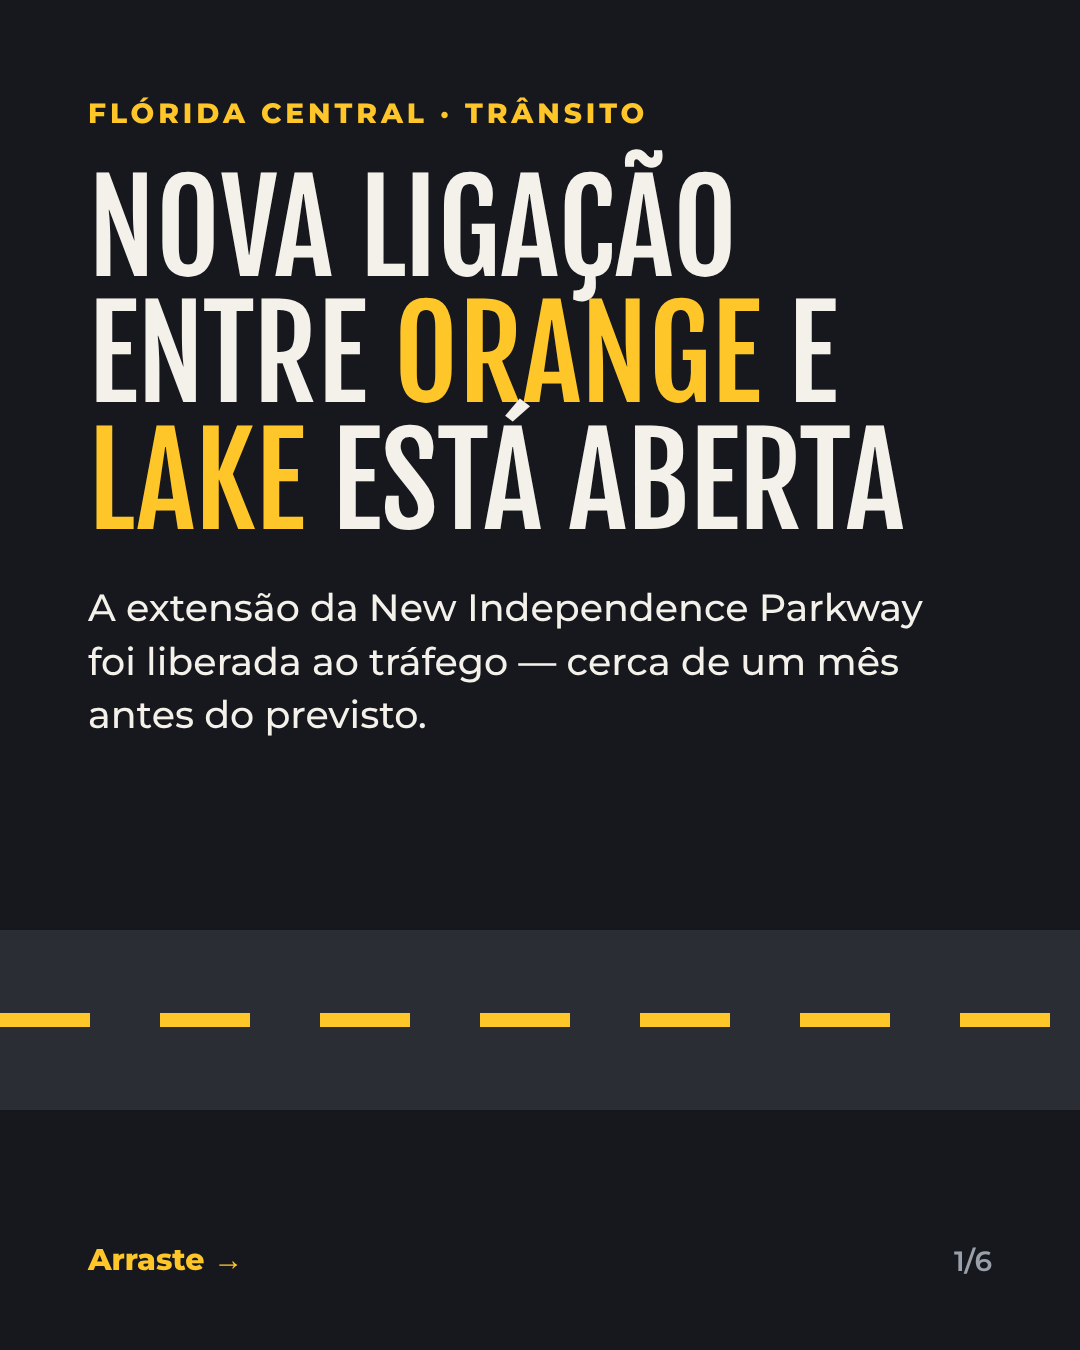
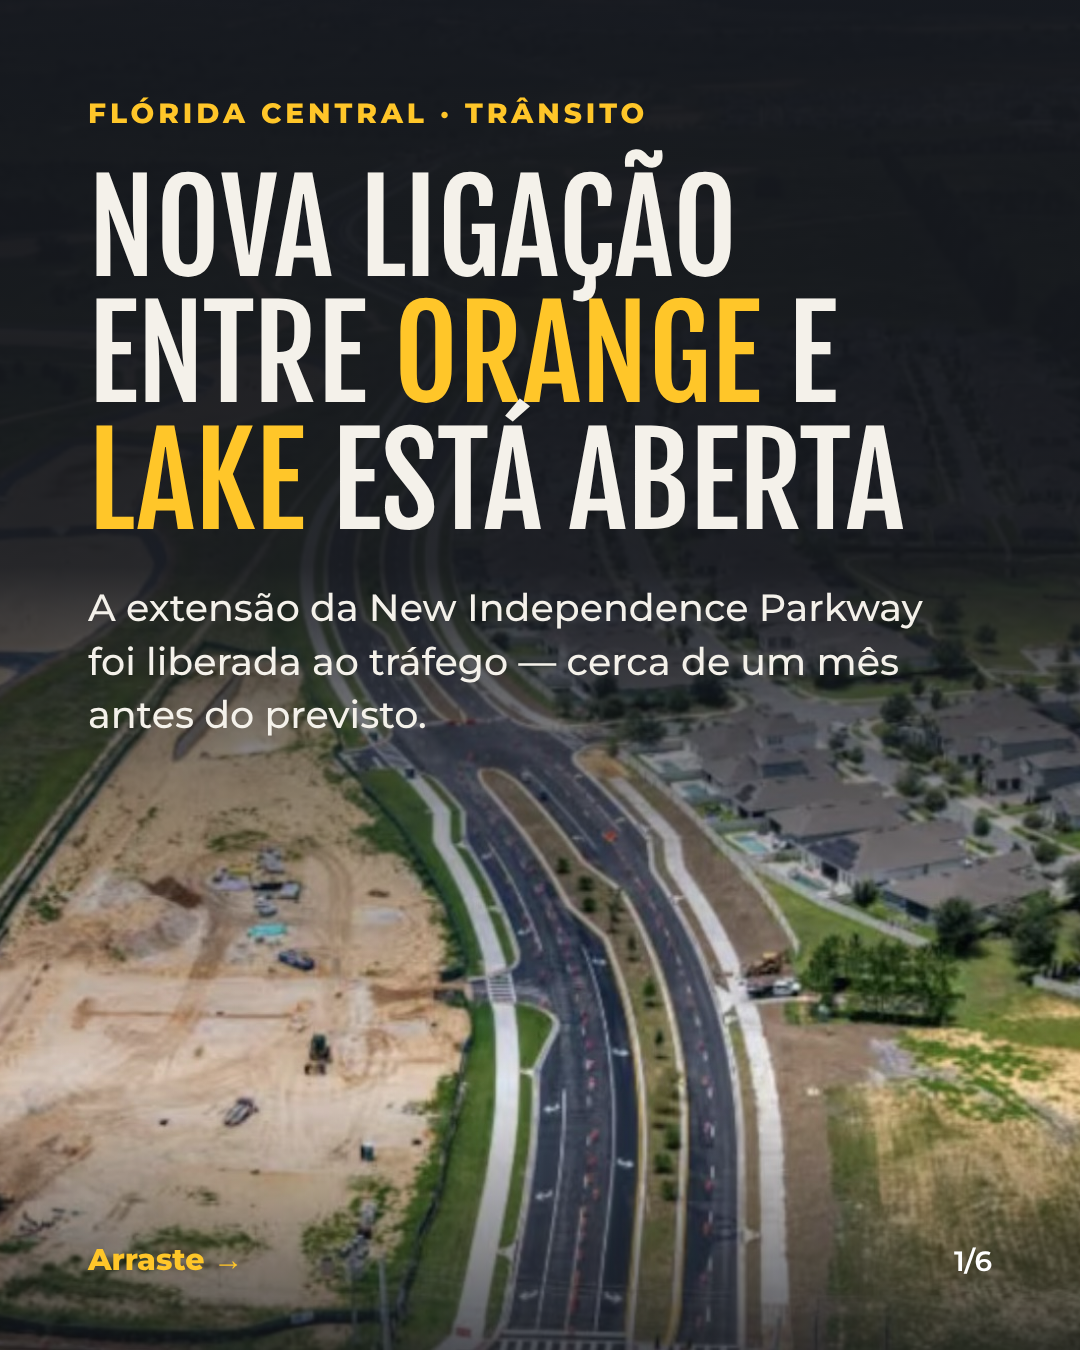
Add aerial photo to carousel cover slide
Claude-Session: https://claude.ai/code/session_01Pv3G6C3CtNxn2w1P7ZqaoY

diff --git a/carrossel/carrossel.html b/carrossel/carrossel.html
@@ -26,13 +26,14 @@ p{font-size:38px;font-weight:500;line-height:1.4;margin-top:36px;max-width:880px
 .claro .dot{background:var(--verde)}
 .map{margin-top:auto;margin-bottom:120px}
 .fonte{font-size:24px;color:var(--cinza);margin-top:auto;margin-bottom:80px;line-height:1.4}
+.capa{background:linear-gradient(180deg,rgba(22,24,29,.97) 0%,rgba(22,24,29,.92) 42%,rgba(22,24,29,.2) 66%,rgba(22,24,29,0) 80%,rgba(22,24,29,.75) 100%),url(foto-parkway.jpg) center 40%/cover no-repeat}
+.capa .pg{color:#fff}
 </style></head><body>
 
-<section class="s">
+<section class="s capa">
   <div class="tag">Flórida Central · Trânsito</div>
   <h1>Nova ligação entre <span class="hl">Orange</span> e <span class="hl">Lake</span> está aberta</h1>
   <p>A extensão da New Independence Parkway foi liberada ao tráfego — cerca de um mês antes do previsto.</p>
-  <div class="road" style="bottom:240px"></div>
   <div class="swipe">Arraste →</div><div class="pg">1/6</div>
 </section>
 
